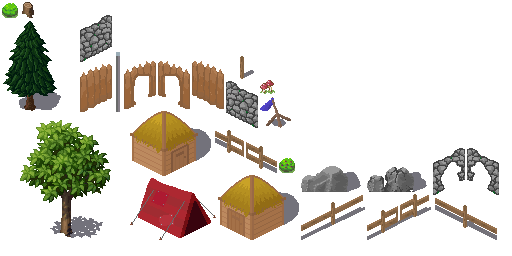
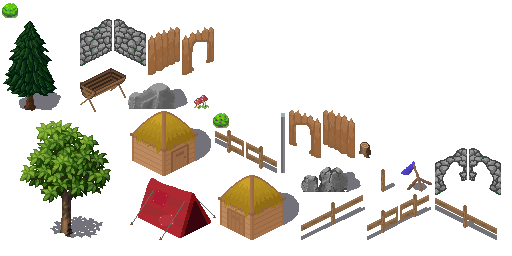
'quick' feeding tub texture (it took long and is ugly)

diff --git a/core/src/dev/codewizz/world/objects/FeedingTub.java b/core/src/dev/codewizz/world/objects/FeedingTub.java
@@ -19,7 +19,7 @@ import java.util.concurrent.CopyOnWriteArrayList;
 
 public class FeedingTub extends GameObject implements SerializableObject, IBuy {
 
-	private static final Sprite texture = Assets.getSprite("stump");
+	private static final Sprite texture = Assets.getSprite("feeding-tub");
 	private final List<Item> costs = new CopyOnWriteArrayList<>();
 
 	public FeedingTub() {
